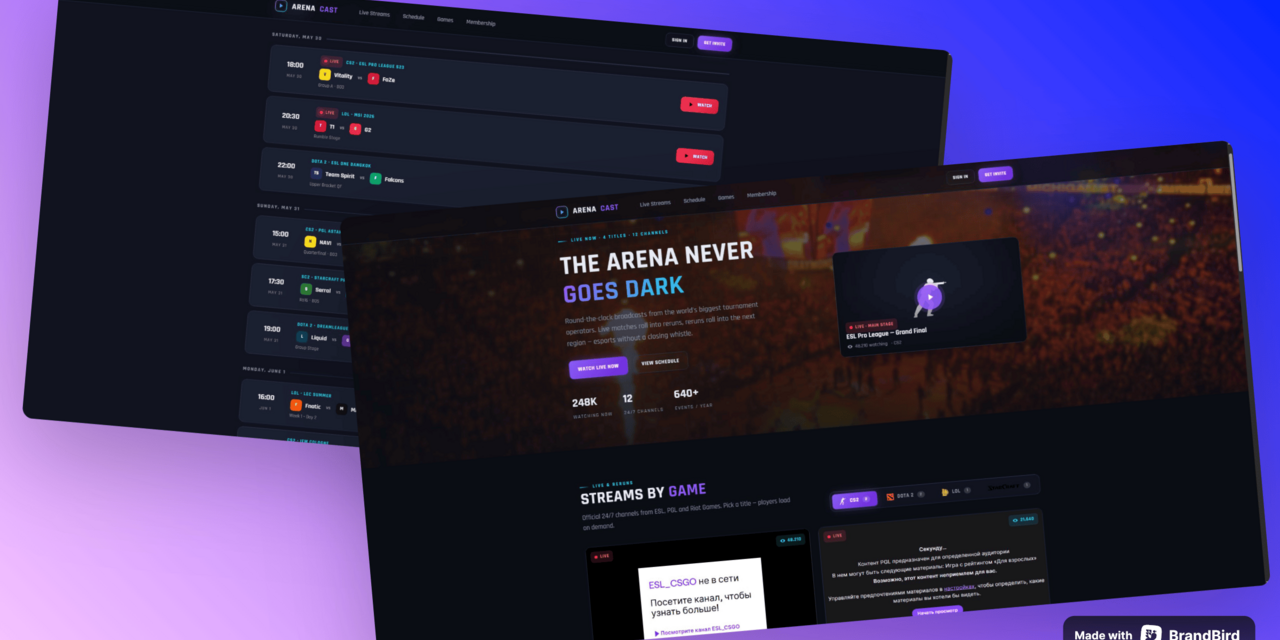
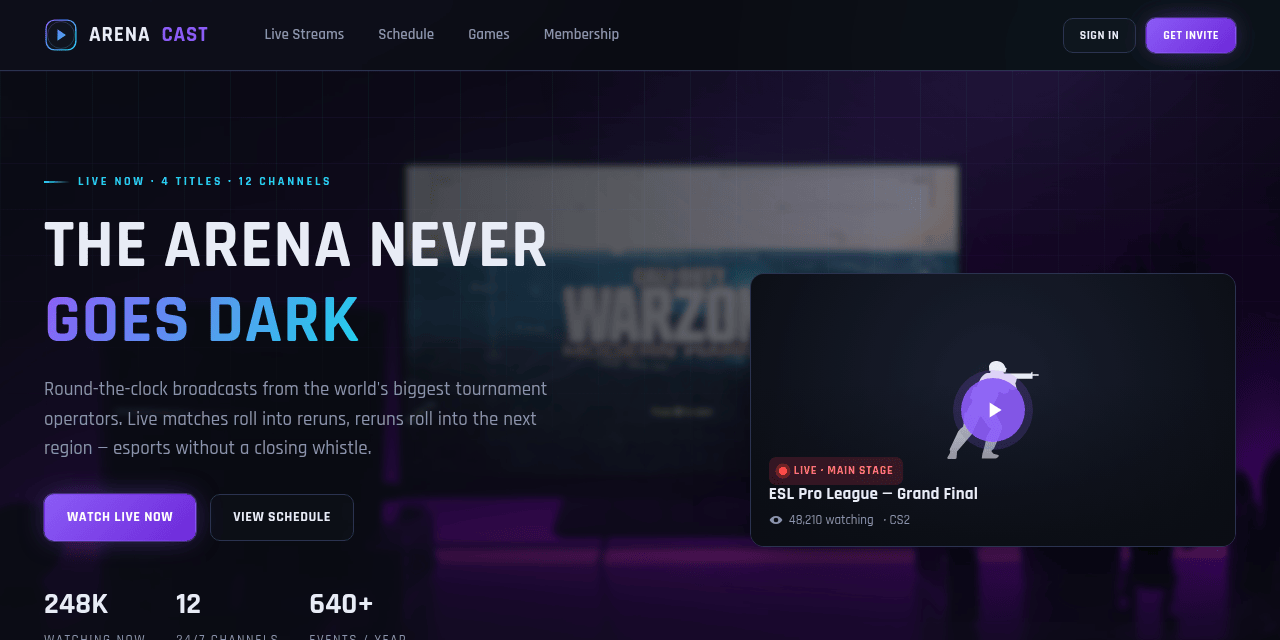
Главная: витрина шаблонов (грид с карточками, демо+репозиторий), обновлено превью и OG

diff --git a/index.html b/index.html
@@ -1,26 +1,128 @@
 <!DOCTYPE html>
-<html lang="en">
+<html lang="ru">
 <head>
   <meta charset="UTF-8">
   <meta name="viewport" content="width=device-width, initial-scale=1.0">
-  <title>node-templates — ArenaCast Esports Stream Template</title>
-  <meta name="description" content="Static, deploy-ready website templates. Live demo: ArenaCast — a 24/7 esports broadcast landing page.">
+  <title>node-templates — витрина шаблонов</title>
+  <meta name="description" content="Коллекция статических, готовых к деплою шаблонов сайтов на чистом HTML/CSS/JS. Живые демо и исходники.">
   <!-- OG / link preview -->
   <meta property="og:type" content="website">
   <meta property="og:site_name" content="node-templates">
-  <meta property="og:title" content="node-templates — ArenaCast Esports Stream Template">
-  <meta property="og:description" content="Static, deploy-ready website templates. Live demo of ArenaCast — a 24/7 esports broadcast landing page.">
+  <meta property="og:title" content="node-templates — витрина шаблонов">
+  <meta property="og:description" content="Коллекция статических, готовых к деплою шаблонов сайтов на чистом HTML/CSS/JS. Живые демо и исходники.">
   <meta property="og:url" content="https://mrvibecodic.github.io/node-templates/">
   <meta property="og:image" content="https://mrvibecodic.github.io/node-templates/previews/og-image.png">
   <meta property="og:image:width" content="1280">
   <meta property="og:image:height" content="640">
   <meta name="twitter:card" content="summary_large_image">
   <meta name="twitter:image" content="https://mrvibecodic.github.io/node-templates/previews/og-image.png">
-  <link rel="canonical" href="https://mrvibecodic.github.io/node-templates/esports-stream-template/">
-  <meta http-equiv="refresh" content="0; url=./esports-stream-template/">
+  <link rel="preconnect" href="https://fonts.googleapis.com">
+  <link rel="preconnect" href="https://fonts.gstatic.com" crossorigin>
+  <link href="https://fonts.googleapis.com/css2?family=Rajdhani:wght@600;700&family=Inter:wght@400;500;600&display=swap" rel="stylesheet">
+  <style>
+    :root{
+      --bg:#0b0e13; --surface:#141925; --surface-2:#1b2230; --line:#28303f;
+      --text:#e8edf4; --muted:#9aa3b5; --accent:#0bc6e3; --brand:#7c5cff; --live:#ff3b5c;
+      --maxw:1140px; --radius:16px;
+    }
+    *{box-sizing:border-box}
+    body{margin:0;background:radial-gradient(1200px 600px at 80% -10%,rgba(124,92,255,.18),transparent 60%),radial-gradient(900px 500px at 0% 0%,rgba(11,198,227,.12),transparent 55%),var(--bg);
+      color:var(--text);font-family:Inter,system-ui,Segoe UI,Roboto,sans-serif;line-height:1.55}
+    a{color:inherit;text-decoration:none}
+    .wrap{max-width:var(--maxw);margin:0 auto;padding:0 22px}
+    header.hero{padding:72px 0 40px;text-align:center}
+    .eyebrow{display:inline-block;font-size:12px;letter-spacing:.18em;text-transform:uppercase;color:var(--accent);
+      border:1px solid var(--line);border-radius:999px;padding:6px 14px;margin-bottom:20px;background:rgba(255,255,255,.02)}
+    h1{font-family:Rajdhani,sans-serif;font-weight:700;font-size:clamp(34px,6vw,60px);line-height:1.04;margin:0 0 16px;
+      letter-spacing:.5px}
+    h1 span{background:linear-gradient(90deg,var(--accent),var(--brand));-webkit-background-clip:text;background-clip:text;color:transparent}
+    .sub{max-width:680px;margin:0 auto;color:var(--muted);font-size:18px}
+    .meta{margin-top:22px;display:flex;gap:10px;justify-content:center;flex-wrap:wrap}
+    .chip{font-size:13px;color:var(--muted);border:1px solid var(--line);border-radius:999px;padding:6px 12px;background:var(--surface)}
+    .notice{max-width:var(--maxw);margin:14px auto 0;padding:0 22px}
+    .notice .inner{display:flex;gap:12px;align-items:flex-start;background:rgba(255,59,92,.08);border:1px solid rgba(255,59,92,.3);
+      border-radius:12px;padding:12px 16px;color:#ffd7de;font-size:14px}
+    .notice b{color:#fff}
+    section.grid-sec{padding:34px 0 80px}
+    .grid{display:grid;grid-template-columns:repeat(auto-fill,minmax(330px,1fr));gap:22px}
+    .card{background:var(--surface);border:1px solid var(--line);border-radius:var(--radius);overflow:hidden;
+      display:flex;flex-direction:column;transition:transform .18s ease,border-color .18s ease,box-shadow .18s ease}
+    .card:hover{transform:translateY(-4px);border-color:rgba(11,198,227,.5);box-shadow:0 18px 40px -20px rgba(0,0,0,.8)}
+    .thumb{position:relative;aspect-ratio:16/10;background-size:cover;background-position:top center}
+    .thumb::after{content:"";position:absolute;inset:0;background:linear-gradient(180deg,rgba(11,14,19,0) 30%,rgba(11,14,19,.92) 100%)}
+    .panel{position:absolute;left:14px;right:14px;bottom:14px;z-index:1;background:rgba(11,14,19,.66);
+      backdrop-filter:blur(6px);-webkit-backdrop-filter:blur(6px);border:1px solid rgba(255,255,255,.08);
+      border-radius:12px;padding:12px 14px}
+    .tag{font-size:11px;letter-spacing:.12em;text-transform:uppercase;color:var(--accent);font-weight:600}
+    .panel h3{font-family:Rajdhani,sans-serif;font-weight:700;font-size:22px;margin:4px 0 6px;letter-spacing:.4px}
+    .panel p{margin:0;font-size:13.5px;color:#cfd6e4}
+    .actions{display:flex;gap:10px;padding:14px}
+    .btn{flex:1;text-align:center;font-size:14px;font-weight:600;padding:10px 12px;border-radius:10px;border:1px solid var(--line);
+      transition:background .15s,border-color .15s}
+    .btn-primary{background:linear-gradient(90deg,var(--accent),var(--brand));color:#0b0e13;border:none}
+    .btn-primary:hover{filter:brightness(1.08)}
+    .btn-ghost:hover{background:var(--surface-2);border-color:var(--accent)}
+    footer{border-top:1px solid var(--line);padding:26px 0;text-align:center;color:var(--muted);font-size:14px}
+    footer a{color:var(--accent)}
+  </style>
 </head>
-<body style="background:#0b0e13;color:#e8edf4;font-family:system-ui,Segoe UI,Roboto,sans-serif;display:flex;min-height:100vh;align-items:center;justify-content:center;margin:0">
-  <p style="text-align:center">Открываю демо ArenaCast…<br>
-  <a href="./esports-stream-template/" style="color:#0bc6e3">node-templates/esports-stream-template</a></p>
+<body>
+  <header class="hero">
+    <div class="wrap">
+      <span class="eyebrow">node-templates</span>
+      <h1>Витрина <span>шаблонов</span></h1>
+      <p class="sub">Коллекция статических, готовых к деплою сайтов на чистом <b>HTML&nbsp;+&nbsp;CSS&nbsp;+&nbsp;JS</b> — без сборки и зависимостей. Живое демо и исходники для каждого шаблона.</p>
+      <div class="meta">
+        <span class="chip">Без сборки</span>
+        <span class="chip">Без зависимостей</span>
+        <span class="chip">Netlify · Vercel · GitHub Pages · S3</span>
+      </div>
+    </div>
+  </header>
+
+  <div class="notice"><div class="inner">
+    <span>⚠</span>
+    <div><b>Про превью на GitHub Pages.</b> Некоторые встраиваемые блоки (например, Twitch-плееры) на GitHub&nbsp;Pages могут не отображаться — это ограничение демо-хостинга, в реальном деплое они работают.</div>
+  </div></div>
+
+  <section class="grid-sec">
+    <div class="wrap">
+      <div class="grid" id="grid"></div>
+    </div>
+  </section>
+
+  <footer class="wrap">
+    Исходники: <a href="https://github.com/Mrvibecodic/node-templates">github.com/Mrvibecodic/node-templates</a> · вдохновлено <a href="https://github.com/SmallPoppa">SmallPoppa</a>
+  </footer>
+
+  <script>
+    // Список шаблонов. Добавить новый = добавить объект сюда.
+    const REPO = "https://github.com/Mrvibecodic/node-templates/tree/main";
+    const TEMPLATES = [
+      {
+        name: "ArenaCast",
+        tag: "Esports · Streaming",
+        img: "previews/esports-stream-template.png",
+        desc: "Лендинг круглосуточной киберспортивной трансляции: вкладки живых стримов по играм, расписание турниров, флоу закрытого членства и внутренние страницы.",
+        demo: "esports-stream-template/",
+        code: REPO + "/esports-stream-template"
+      }
+    ];
+    const grid = document.getElementById("grid");
+    grid.innerHTML = TEMPLATES.map(t => `
+      <article class="card">
+        <div class="thumb" style="background-image:url('${t.img}')">
+          <div class="panel">
+            <div class="tag">${t.tag}</div>
+            <h3>${t.name}</h3>
+            <p>${t.desc}</p>
+          </div>
+        </div>
+        <div class="actions">
+          <a class="btn btn-primary" href="${t.demo}">Демо</a>
+          <a class="btn btn-ghost" href="${t.code}">Репозиторий</a>
+        </div>
+      </article>`).join("");
+  </script>
 </body>
 </html>